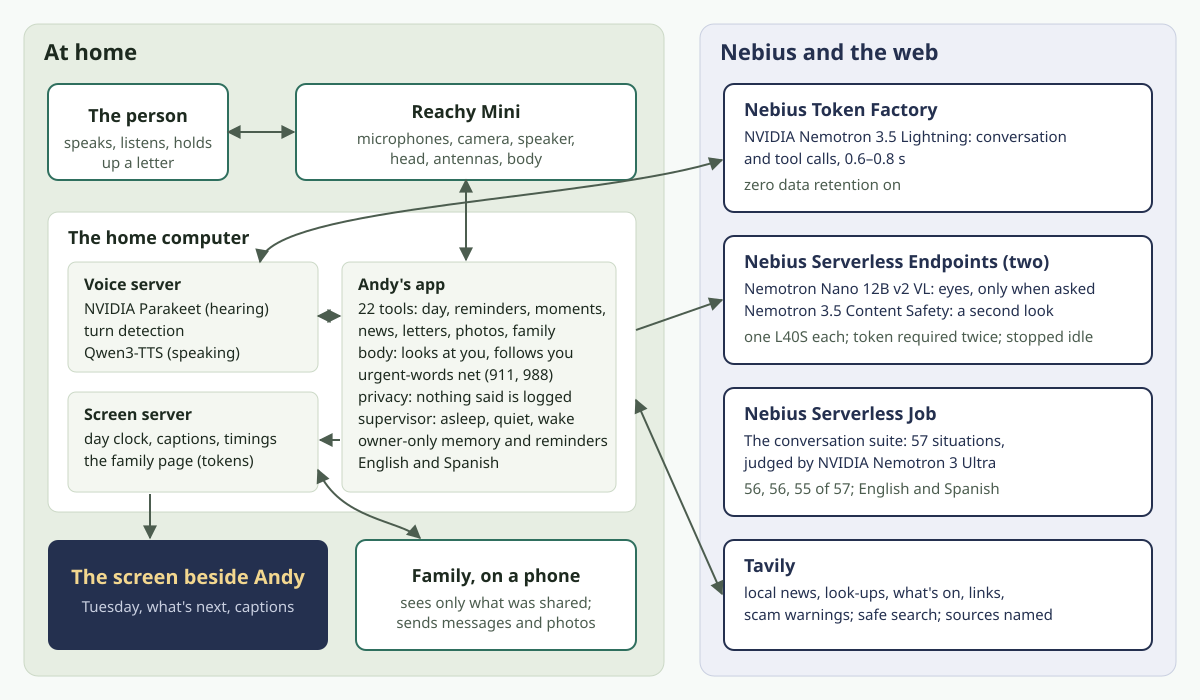
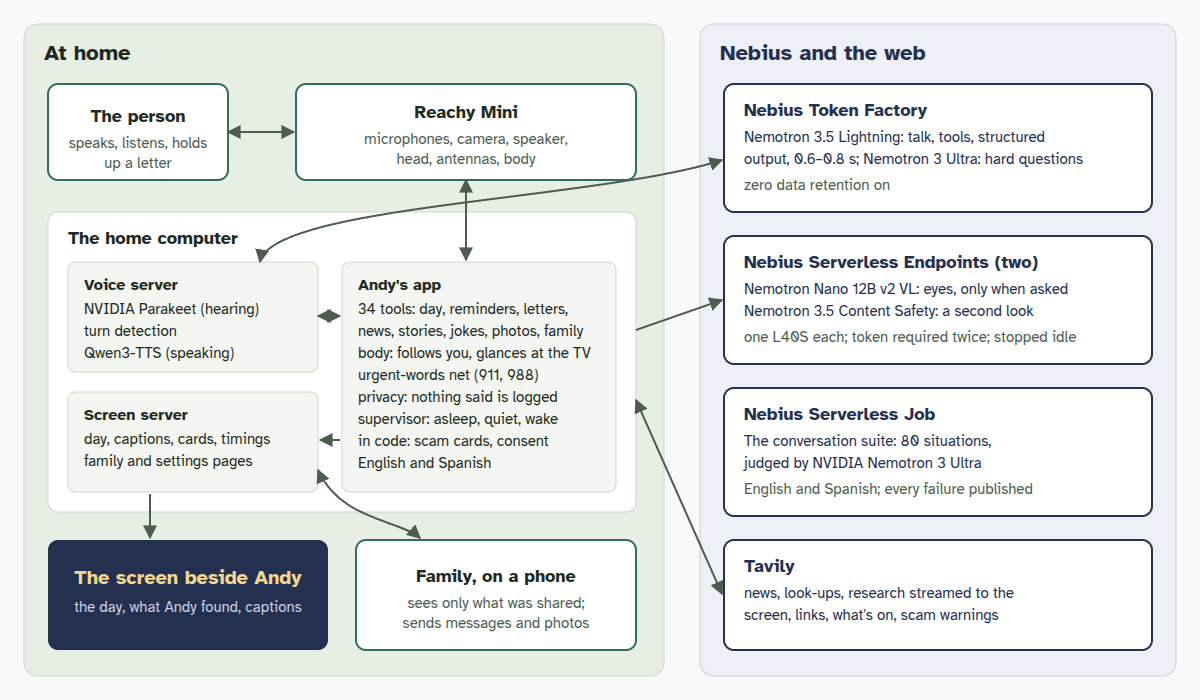
docs(images): the architecture picture, current

diff --git a/CHANGELOG.md b/CHANGELOG.md
@@ -5,6 +5,14 @@ Every change, newest first, grouped by date. Each entry says what changed and wh
 
 ## 2026-10-13
 
+### Changed (the architecture picture, current)
+
+- `docs/images/architecture.svg` and `.png`: 34 tools (letters, stories, jokes), the glance at the
+  screen, the safety in code, Nemotron 3 Ultra and structured output on Token Factory, Tavily research
+  streamed to the screen, and the suite at 80 situations. Scores are left out of the picture, because
+  they go stale; the README has them. The PNG is rendered in Atkinson Hyperlegible, and every line was
+  checked to fit its box.
+
 ### Changed (the Devpost texts and the feedback, current)
 
 - `docs/submission.md` is rewritten in Devpost's sections (Inspiration, What it does, How we built it,
